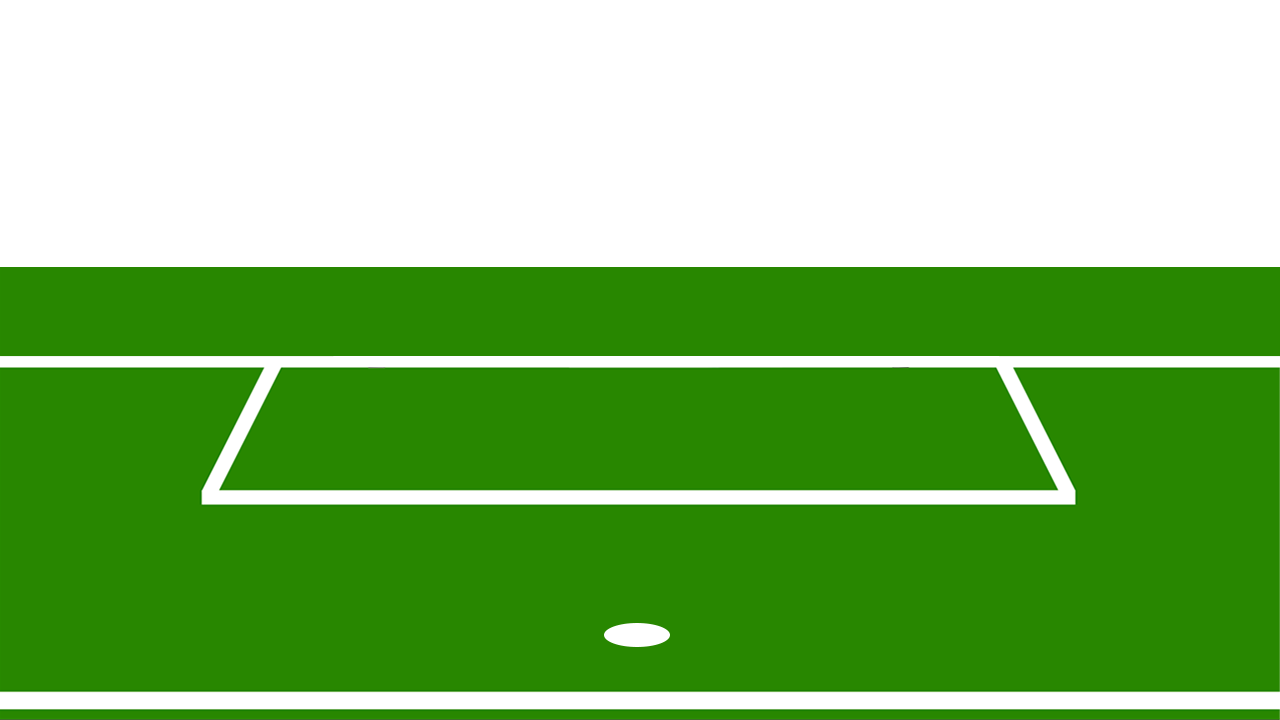
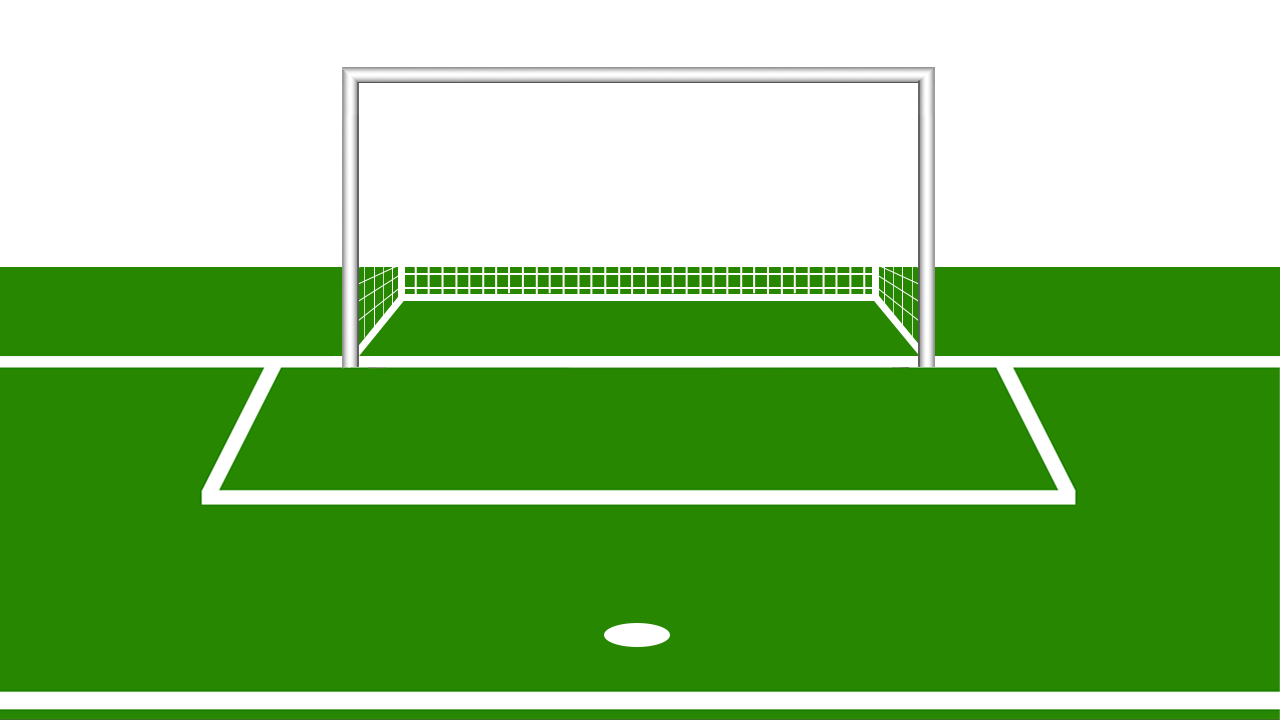
assunto principal: animaçao da bola
mudei algumas imagens e ajustei ao que precisavamos.

No que toca a bola, tava a fazer na versao em que tava tudo na mesma file (animaçoes e resto do js) e o problema nesa versao e que so animava quando se fazia clique, ou seja, cada frame era equivalente a um clique. Deixei o codigo que fiz mas nao tentei por a funcionar pq ja tou um bocado cansado e tinha de pensar como e que funcionava o facto na escolha tar num ficheiro e a animaçao noutro.

Adicionei um ficheiro excel com os pontos de cada curva para cada quadrado.

Alguma duvida entrem em contacto

Changed region(s): [[0.25, 0.0917, 0.75, 0.5194]]

diff --git a/assets/common/js/animacoes.js b/assets/common/js/animacoes.js
@@ -1,7 +1,50 @@
 // Animacao da bola
-function animBola() {
-    // TODO
+var v = 0;
+var posX = 610; // variaçao da bola em X
+var posY = 583; // variaçao da bola em Y
+
+/* // Curva de Bezier
+function calc(v, x0, y0, x1, y1, x2, y2, x3, y3) {
+    posX = ((1 - v) * ((1 - v) * ((1 - v) * x0 + v * x1) + v * ((1 - v) * x1 + v * x2)) + v * ((1 - v) * ((1 - v) * x1 + v * x2) + v * ((1 - v) * x2 + v * x3)));
+    posY = (1 - v) * ((1 - v) * ((1 - v) * y0 + v * y1) + v * ((1 - v) * y1 + v * y2)) + v * ((1 - v) * ((1 - v) * y1 + v * y2) + v * ((1 - v) * y2 + v * y3));
+} */
+
+// Bola
+var imagem = new Image()
+imagem.src = '../assets/common/img/bola.png';
+
+// Desenho da Bola
+function desenhar(ponto1, ponto2, ponto3, ponto4, ponto5, ponto6, ponto7, ponto8) {
+
+    var x0 = ponto1;   // pontos da curva
+    var y0 = ponto2;
+    var x1 = ponto3;
+    var y1 = ponto4;
+    var x2 = ponto5;
+    var y2 = ponto6;
+    var x3 = ponto7;
+    var y3 = ponto8;
+
+    ctx.clearRect(0, 0, canvas.width, canvas.height);
+
+    ctx.beginPath();
+    ctx.drawImage(imagem, posX, posY)
+
+    v += 0.01
+    posX = ((1 - v) * ((1 - v) * ((1 - v) * x0 + v * x1) + v * ((1 - v) * x1 + v * x2)) + v * ((1 - v) * ((1 - v) * x1 + v * x2) + v * ((1 - v) * x2 + v * x3)));
+    posY = (1 - v) * ((1 - v) * ((1 - v) * y0 + v * y1) + v * ((1 - v) * y1 + v * y2)) + v * ((1 - v) * ((1 - v) * y1 + v * y2) + v * ((1 - v) * y2 + v * y3));
+
+
+    if (v >= 1)
+        window.clearInterval(timerBola)
+
+   
 }
+  // Atribuir movimento da bola a cada escolha
+  if (escolha == 1) {
+    var timerBola = window.setInterval(desenhar(610, 583, 368, 450, 280, 186, 429, 110), 10)
+}
+
 
 // Animacao do guarda-redes
 function animRedes() {
@@ -12,6 +55,8 @@ function animRedes() {
 function animPublicidade() {
     var imagem = new Image() // Criar variavel imagem
     imagem.src = '../assets/common/img/placares.png'; // Atribuir imagem a variavel
+    var baliza = new Image() // Criar variavel imagem
+    baliza.src = '../assets/common/img/baliza.png'; // Atribuir imagem a variavel
 
     // Canto superior esquerdo - onde vamos desenhar a imagem
     var x = 0;
@@ -22,6 +67,7 @@ function animPublicidade() {
         ctx.clearRect(0, 0, canvas.width, canvas.height) // Apaga o canvas
 
         ctx.drawImage(imagem, x, y) //desenha a imagem
+
         if (x > 0) {                                                    // Se o x for maior que 0
             ctx.drawImage(imagem, 1280 - x, 0, x, 720, 0, 0, x, 720)    // Desenhar o bocado da imagem (1290 - x, 0) Que esta fora do canvas No ponto (0,0)
         }
@@ -30,6 +76,7 @@ function animPublicidade() {
         if (x == 1280) {  //Quando o X chega ao fim da imagem
             x = 0       //volta a ser 0
         }
+        ctx.drawImage(baliza, 0, 0) //desenha a imagem
     }
 
     // Chamar a função da publicidade
@@ -40,6 +87,8 @@ function animPublicidade() {
 function animPlateia() {
     // TO DO
 }
+
+
 
 //animBola();
 //animRedes();

diff --git a/pages/TESTE.html b/pages/TESTE.html
@@ -9,11 +9,14 @@
             display: block;
         }
     </style>
+
+      <!-- CSS -->
+      <link rel="stylesheet" href="../assets/common/css/config.css">
 </head>
 
 <body>
 
-    <canvas id="myCanvas" width="500" height="400" style="border:solid 3px orange">
+    <canvas id="myCanvas" width="1280" height="720" style="border:solid 3px orange;">
         Your browser does not support HTML5 Canvas.
     </canvas>
 
@@ -49,18 +52,18 @@
 
         var circulo = {
 
-            x0: 2,
-            y0: 0.8,
+            x0: 610,
+            y0: 583,
 
-            x1: 159.4,
-            y1: 10.1,
+            x1: 893,
+            y1: 470,
 
-            x2: 129.7,
-            y2: 81.8,
+            x2: 969,
+            y2: 340,
 
-            x3: 80.7,
-            y3: 98.8,
-        };
+            x3: 800,
+            y3: 290,
+        };// Bola: X:637 Y:609
 
         var t = 0
         //equação da curva de bezier
@@ -73,26 +76,22 @@
 
         }
 
-        calc(0);
-        var vY = 2;
-
-        var r = 5;
-
+        
+        
         var imagem = new Image() 
         imagem.src = '../assets/common/img/bola.png';
 
+        
         function desenhar() {
 
-            //ctx.clearRect(-canvas.width / 2, 0, canvas.width, canvas.height);
+           
             ctx.clearRect(0, 0, canvas.width, canvas.height);
 
 
             ctx.beginPath();
-            ctx.fillStyle = "Teal"
+         
             ctx.drawImage(imagem, posX, posY)
-            ctx.fill();
 
-            //posY += vY
             t += 0.01
             calc(t);
             console.log(posX, posY)

diff --git a/pages/mainGame.html b/pages/mainGame.html
@@ -36,6 +36,7 @@
     <!-- JS -->
     <script src="../assets/common/js/config.js"></script>
     <script src="../assets/common/js/mainGame.js"></script>
+    <script src="../assets/common/js/animacoes.js"></script>
     <!-- <script src="../assets/common/js/animacoes.js"></script> -->
     <script src="../assets/common/js/areas.js"></script>
 </body>

diff --git a/assets/common/css/config.css b/assets/common/css/config.css
@@ -37,5 +37,5 @@ body {
 }
 
 canvas {
-    background-image: url("../img/cenario.png");
+    background-image: url("../img/relvado.png");
 }
